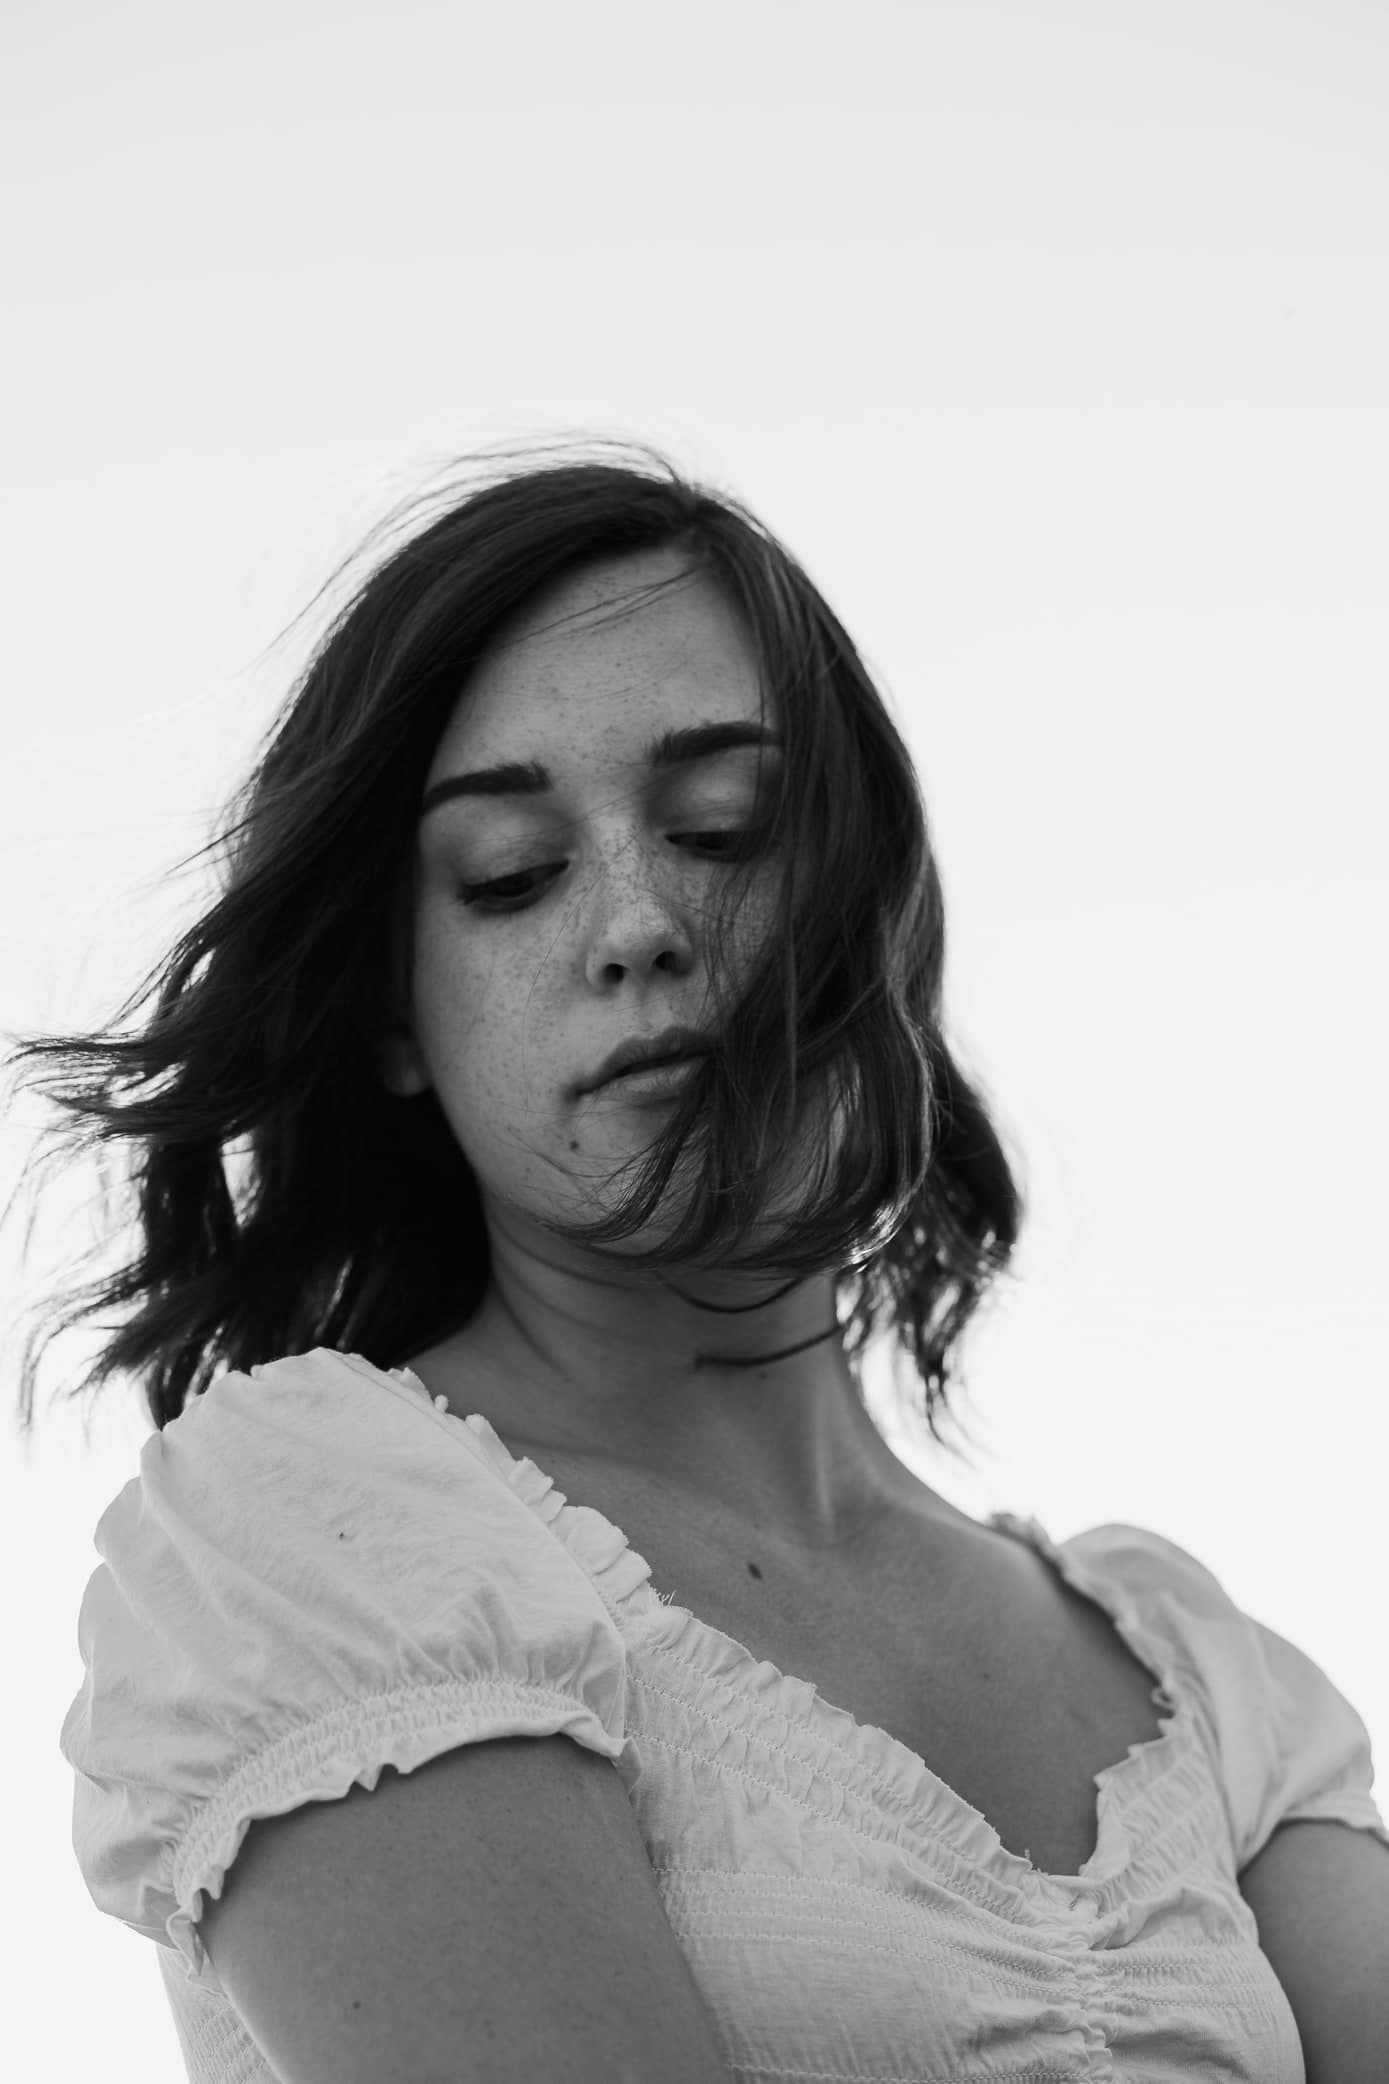
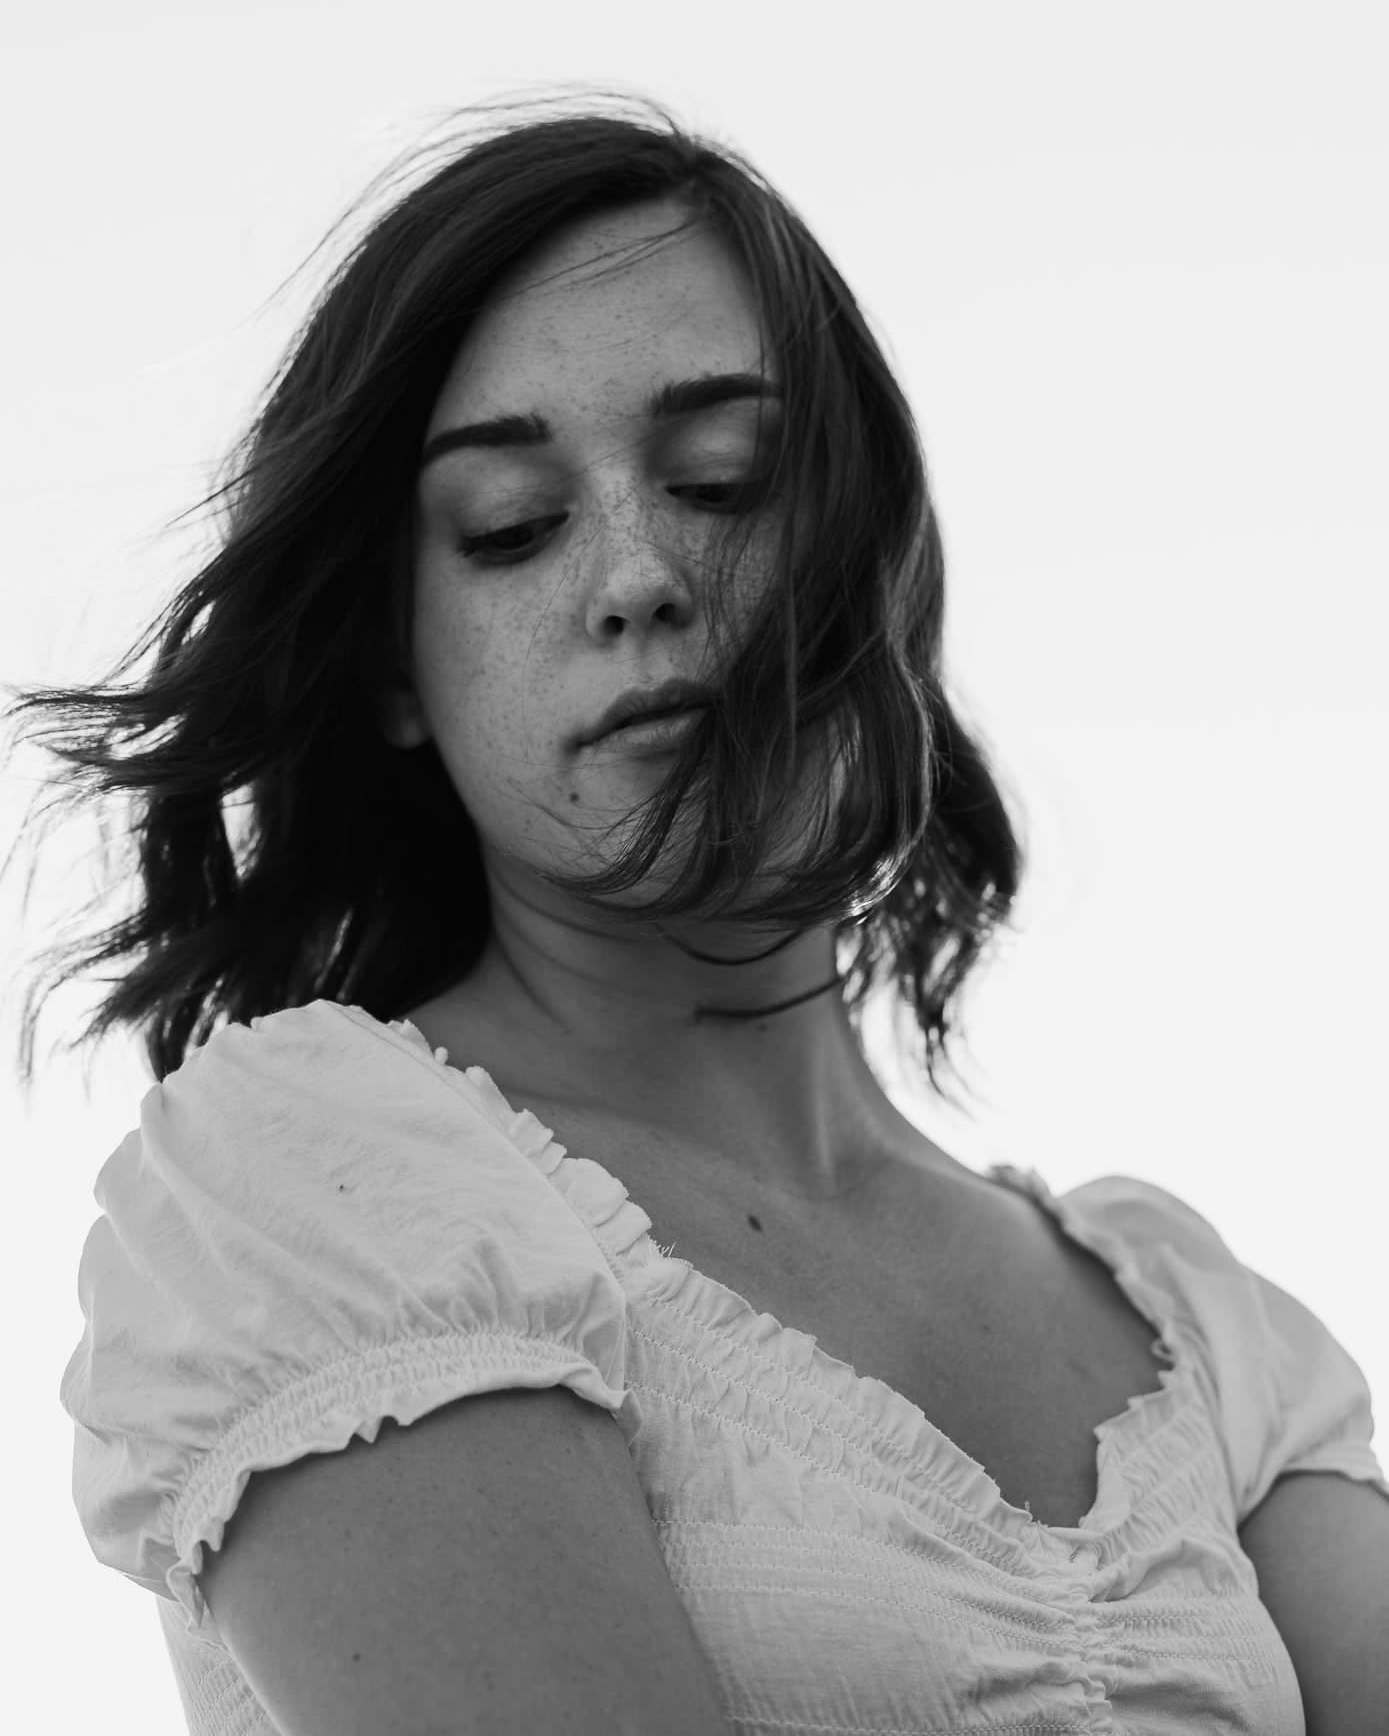
update image oriantation

diff --git a/index.html b/index.html
@@ -73,10 +73,10 @@ gtag('config', 'UA-169562309-1');
 </div>
 
 
-<header class="bigheader pad-b ">
+<header class="bigheader pad-b-1-2 ">
   <div class="grid grid-middle">
     <div class="text-center unit xs-1">
-      <a rel="home" href="index.html"><img itemprop="logo" tabindex="0" alt="mitts.productions logo. ottawa, ontario" class=" icon i-96" src="images/mitts-logo-bk.svg"></a>
+      <a rel="home" href="index.html"><img itemprop="logo" tabindex="0" alt="mitts.productions logo. ottawa, ontario" class=" icon i-96 push-0" src="images/mitts-logo-bk.svg"></a>
     </div>
 
     <ul class=" push-0 unit s-1 text-center bigheader">
@@ -101,82 +101,54 @@ gtag('config', 'UA-169562309-1');
 
 
       <section class="gutter-1-2  pad-b-2">
-      <div class="grid grid-middle">
-        <div class="island-1-8 unit s-1 ">
-          <img tabindex="0" class="img-flex  push-0" src="images/photography/project-uk/img (2).jpg" alt="mirror reflection editorial ottawa, ontario" onclick="openModal();currentSlide(1)" class="hover-shadow"/>
+      <div class="large-gutter grid grid-middle">
+        <div class=" gutter-1-4 unit s-1 ">
+          <img tabindex="0" class=" img-flex push-0" src="images/photography/clara/img-(18).jpg" alt="mirror reflection editorial ottawa, ontario" onclick="openModal();currentSlide(1)" class="hover-shadow"/>
         </div>
 
-        <div class="island-1-8 unit s-1 m-1-3">
-          <img tabindex="0" class="img-flex  push-0" src="images/photography/editorial/img (9).jpg" alt="fashion lifestyle in ottawa, ontario" onclick="openModal();currentSlide(2)" class="hover-shadow"/>
+        <div class="island-1-4 unit s-1 m-1-3">
+          <img tabindex="0" class="img-flex  push-0" src="images/photography/lifestyle/image-11v2.jpg" alt="stylist redhead studio ottawa, ontario" onclick="openModal();currentSlide(4)" class="hover-shadow"/>
         </div>
-        <div class="island-1-8 unit s-1 m-1-3">
-          <img tabindex="0" class="img-flex  push-0" src="images/photography/editorial/img (13).jpg" alt="black and white thinking moment captured in ottawa, ontario" onclick="openModal();currentSlide(3)" class="hover-shadow"/>
+        <div class="island-1-4 unit s-1 m-1-3 ">
+          <img tabindex="0" class="img-flex  push-0" src="images/photography/editorial/kevin-(1).jpg" alt="dramatic lighting sitting on chair ottawa, ontario" onclick="openModal();currentSlide(14)" class="hover-shadow"/>
         </div>
-        <div class="island-1-8 unit s-1 m-1-3">
-          <img tabindex="0" class="img-flex  push-0" src="images/photography/editorial/img (16).jpg" alt="stylist redhead studio ottawa, ontario" onclick="openModal();currentSlide(4)" class="hover-shadow"/>
+        <div class="island-1-4 unit s-1 m-1-3">
+          <img tabindex="0" class="img-flex  push-0" src="images/photography/editorial/img (21).jpg" alt="european fashion big smile ottawa, ontario" onclick="openModal();currentSlide(10)" class="hover-shadow"/>
         </div>
 
-        <div class="island-1-8 unit s-1 m-1-3 ">
+
+        <div class="island-1-4 unit s-1 m-1-3 ">
           <img tabindex="0" class="img-flex  push-0" src="images/photography/editorial/img (4).jpg" alt="black and white close up ottawa, ontario" onclick="openModal();currentSlide(13)" class="hover-shadow"/>
         </div>
-        <div class="island-1-8 unit s-1 m-2-3 ">
-          <img tabindex="0" class="img-flex  push-0" src="images/photography/editorial/img (3).jpg" alt="dramatic lighting sitting on chair ottawa, ontario" onclick="openModal();currentSlide(14)" class="hover-shadow"/>
-        </div>
-
-        <div class="island-1-8 unit s-1 m-1-3">
-          <img tabindex="0" class="img-flex  push-0" src="images/photography/project-uk/img (1).jpg" alt="2 male model editorial ottawa, ontario" onclick="openModal();currentSlide(8)" class="hover-shadow"/>
-        </div>
-        <div class="island-1-8 unit s-1 m-1-3">
-          <img tabindex="0" class="img-flex  push-0" src="images/photography/project-uk/img (3).jpg" alt="creative set ottawa, ontario" onclick="openModal();currentSlide(9)" class="hover-shadow"/>
-        </div>
-        <div class="island-1-8 unit s-1 m-1-3">
+        <div class="island-1-4 unit s-1 m-1-3">
           <img tabindex="0" class="img-flex  push-0" src="images/photography/project-uk/img (7).jpg" alt="european fashion ottawa, ontario" onclick="openModal();currentSlide(10)" class="hover-shadow"/>
         </div>
-
-
-        <div class="island-1-8 unit s-1 m-2-3">
-          <img tabindex="0" class="img-flex  push-0" src="images/photography/editorial/img (42).jpg" alt="streetwear look ottawa, ontario" onclick="openModal();currentSlide(5)" class="hover-shadow"/>
-        </div>
-        <div class="island-1-8 unit s-1 m-1-3">
-          <img tabindex="0" class="img-flex  push-0" src="images/photography/editorial/img (43).jpg" alt="creative framing ottawa, ontario" onclick="openModal();currentSlide(6)" class="hover-shadow"/>
+        <div class="island-1-4 unit s-1 m-1-3">
+          <img tabindex="0" class="img-flex  push-0" src="images/photography/editorial/img (13).jpg" alt="black and white thinking moment captured in ottawa, ontario" onclick="openModal();currentSlide(3)" class="hover-shadow"/>
         </div>
 
-        <div class="island-1-8 unit s-1 m-1-3">
-          <img tabindex="0" class="img-flex  push-0" src="images/photography/editorial/img (18).jpg" alt="black and white men in water ottawa, ontario" onclick="openModal();currentSlide(8)" class="hover-shadow"/>
-        </div>
-        <div class="island-1-8 unit s-1 m-1-3">
-          <img tabindex="0" class="img-flex  push-0" src="images/photography/editorial/img (39).jpg" alt="outdoors editorial ottawa, ontario" onclick="openModal();currentSlide(9)" class="hover-shadow"/>
-        </div>
-        <div class="island-1-8 unit s-1 m-1-3">
-          <img tabindex="0" class="img-flex  push-0" src="images/photography/editorial/img (22).jpg" alt="european fashion big smile ottawa, ontario" onclick="openModal();currentSlide(10)" class="hover-shadow"/>
-        </div>
-
-        <div class="island-1-8 unit s-1 m-1-3 ">
+        <div class="island-1-4 unit s-1 m-1-3 ">
           <img tabindex="0" class="img-flex  push-0" src="images/photography/editorial/img (28).jpg" alt="eating a crossant editorial ottawa, ontario" onclick="openModal();currentSlide(15)" class="hover-shadow"/>
         </div>
-        <div class="island-1-8 unit s-1 m-1-3 ">
-          <img tabindex="0" class="img-flex  push-0" src="images/photography/editorial/img (41).jpg" alt="black and white deep feeling in ottawa, ontario" onclick="openModal();currentSlide(16)" class="hover-shadow"/>
+        <div class="island-1-4 unit s-1 m-1-3 ">
+          <img tabindex="0" class="img-flex  push-0" src="images/photography/editorial/img (24).jpg" alt="eating a crossant editorial ottawa, ontario" onclick="openModal();currentSlide(15)" class="hover-shadow"/>
         </div>
-        <div class="island-1-8 unit s-1 m-1-3 ">
-          <img tabindex="0" class="img-flex  push-0" src="images/photography/editorial/img (29).jpg" alt="black and white deep feeling in ottawa, ontario" onclick="openModal();currentSlide(17)" class="hover-shadow"/>
-        </div>
-
-        <div class="island-1-8 unit s-1 m-1-3">
-          <img tabindex="0" class="img-flex  push-0" src="images/photography/editorial/img (24).jpg" alt="streetwear look ottawa, ontario" onclick="openModal();currentSlide(5)" class="hover-shadow"/>
-        </div>
-        <div class="island-1-8 unit s-1 m-1-3">
-          <img tabindex="0" class="img-flex  push-0" src="images/photography/editorial/img (2).jpg" alt="creative framing ottawa, ontario" onclick="openModal();currentSlide(6)" class="hover-shadow"/>
-        </div>
-        <div class="island-1-8 unit s-1 m-1-3">
-          <img tabindex="0" class="img-flex  push-0" src="images/photography/editorial/img (25).jpg" alt="plant oasis portrait  ottawa, ontario" onclick="openModal();currentSlide(7)" class="hover-shadow"/>
+        <div class="island-1-4 unit s-1 m-1-3">
+          <img tabindex="0" class="img-flex  push-0" src="images/photography/editorial/img (39).jpg" alt="outdoors editorial ottawa, ontario" onclick="openModal();currentSlide(9)" class="hover-shadow"/>
         </div>
 
-        <div class="island-1-8 unit s-1 m-2-3 ">
-          <img tabindex="0" class="img-flex  push-0" src="images/photography/editorial/img (38).jpg" alt="thinking while sitting down ottawa, ontario" onclick="openModal();currentSlide(18)" class="hover-shadow"/>
+        <div class="island-1-4 unit s-1 m-1-3">
+          <img tabindex="0" class="img-flex  push-0" src="images/photography/editorial/img (43).jpg" alt="creative framing ottawa, ontario" onclick="openModal();currentSlide(6)" class="hover-shadow"/>
         </div>
-        <div class="island-1-8 unit s-1 m-1-3 ">
-          <img tabindex="0" class="img-flex  push-0" src="images/photography/lifestyle/blm.jpg" alt="bts shot for black lives matter video ottawa, ontario" onclick="openModal();currentSlide(17)" class="hover-shadow"/>
+        <div class="island-1-4 unit s-1 m-1-3">
+          <img tabindex="0" class="img-flex  push-0" src="images/photography/project-uk/img (1).jpg" alt="2 male model editorial ottawa, ontario" onclick="openModal();currentSlide(8)" class="hover-shadow"/>
         </div>
+        <div class="island-1-4 unit s-1 m-1-3">
+          <img tabindex="0" class="img-flex  push-0" src="images/photography/editorial/img (9).jpg" alt="fashion lifestyle in ottawa, ontario" onclick="openModal();currentSlide(2)" class="hover-shadow"/>
+        </div>
+
+
+
       </div>
     </section>
 

diff --git a/css/main.css b/css/main.css
@@ -737,8 +737,8 @@ hr {
   }
 
   .large-gutter {
-    margin-left: 12em;
-    margin-right: 12em;
+    margin-left: 2em;
+    margin-right: 2em;
   }
 }
 
@@ -770,8 +770,8 @@ hr {
   }
 
   .large-gutter {
-    margin-left: 16em;
-    margin-right: 16em;
+    margin-left: 2em;
+    margin-right: 2em;
   }
 
   li, ul, a {
